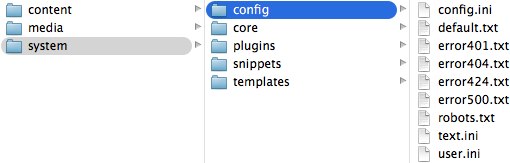
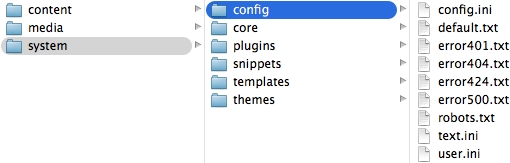
Hello themes

Changed region(s): [[0.4118, 0.5521, 0.5588, 0.6748], [0.7647, 0.5828, 0.7941, 0.6135]]

diff --git a/themes/githubber/githubber.css b/themes/githubber/githubber.css
@@ -1,4 +1,4 @@
-/* Yellow githubber style 0.1.8 */
+/* Yellow githubber theme 0.1.8 */
 
 html, body, div, form, pre, span, tr, th, td { margin:0; padding:0; border:0; vertical-align:baseline; }
 body { 

diff --git a/themes/knowbase/knowbase.css b/themes/knowbase/knowbase.css
@@ -1,4 +1,4 @@
-/* Yellow knowbase style 0.1.1 */
+/* Yellow knowbase theme 0.1.1 */
 
 html, body, div, form, pre, span, tr, th, td { margin:0; padding:0; border:0; vertical-align:baseline; }
 body { 

diff --git a/themes/blogsite/blogsite.css b/themes/blogsite/blogsite.css
@@ -1,4 +1,4 @@
-/* Yellow blogsite style 0.1.8 */
+/* Yellow blogsite theme 0.1.8 */
 
 html, body, div, form, pre, span, tr, th, td { margin:0; padding:0; border:0; vertical-align:baseline; }
 body {

diff --git a/plugins/syntaxhighlight/syntaxhighlight.php b/plugins/syntaxhighlight/syntaxhighlight.php
@@ -5,15 +5,14 @@
 // Syntax highlight parser plugin
 class YellowSyntaxhighlight
 {
-	const Version = "0.1.9";
+	const Version = "0.1.10";
 	var $yellow;			//access to API
 	
 	// Handle plugin initialisation
 	function onLoad($yellow)
 	{
 		$this->yellow = $yellow;
-		$this->yellow->config->setDefault("syntaxStyle", "syntaxhighlight");
-		$this->yellow->config->setDefault("syntaxStyleDefault", "0");
+		$this->yellow->config->setDefault("syntaxStylesheetDefault", "0");
 		$this->yellow->config->setDefault("syntaxLineNumber", "0");
 	}
 	
@@ -42,12 +41,11 @@ class YellowSyntaxhighlight
 	function onHeaderExtra($page)
 	{
 		$header = "";
-		if(!$this->yellow->config->get("syntaxStyleDefault"))
+		if(!$this->yellow->config->get("syntaxStylesheetDefault"))
 		{
-			$locationStyle = $this->yellow->config->get("serverBase");
-			$locationStyle .= $this->yellow->config->get("pluginLocation").$this->yellow->config->get("syntaxStyle").".css";
-			$fileNameStyle = $this->yellow->config->get("pluginDir").$this->yellow->config->get("syntaxStyle").".css";
-			if(is_file($fileNameStyle)) $header = "<link rel=\"stylesheet\" type=\"text/css\" media=\"all\" href=\"$locationStyle\" />\n";
+			$locationStylesheet = $this->yellow->config->get("serverBase").$this->yellow->config->get("pluginLocation")."syntaxhighlight.css";
+			$fileNameStylesheet = $this->yellow->config->get("pluginDir")."syntaxhighlight.css";
+			if(is_file($fileNameStylesheet)) $header = "<link rel=\"stylesheet\" type=\"text/css\" media=\"all\" href=\"$locationStylesheet\" />\n";
 		} else {
 			$geshi = new GeSHi();
 			$geshi->set_language_path($this->yellow->config->get("pluginDir")."/syntaxhighlight/");

diff --git a/documentation/english/media.md b/documentation/english/media.md
@@ -1,16 +1,16 @@
 Adding media
 ============
-All media is located in the **media folder**. You can store your images and other files there.
+All media is located in the **media folder**. You can store your images and other files here.
 
 ![Screenshot](media-screenshot.png?raw=true)
 
-The standard installation of Yellow comes with two media folders. The `images` folder is the place to store your images. For a small website put all images inside one folder, otherwise use multiple folders. The `styles` folder is the place for your styles, there's a `default.css` that defines how your website looks like. It's a starting point for your own designs.
+The standard installation of Yellow comes with one media folder. The `images` folder is the place to store your images. For a small website put all images inside this folder, otherwise use multiple folders. All media files are available on your website, you can use any file type you want.
 
 Create additional folders and organise media files as you like.
 
-Image files
------------
-Here's how to use images, photos and graphics. Open the file `content/1-home/page.txt` in your favorite text editor. Add `![image](icon.png)` to the text of the page. The home page shows now the default website icon. 
+Images
+------
+Here's how to use images and photos on a page. Open the file `content/1-home/page.txt` in your favorite text editor. Add `![image](icon.png)` to the text of the page. The home page shows now the default website icon. 
 
 `![image](icon.png)` shows the image `http://website/images/icon.png`  
 `![image](picture.jpg)` shows the image `http://website/images/picture.jpg`  
@@ -19,7 +19,7 @@ To use more images, add more files to your images folder.
 
 Image resize
 ------------
-Yellow has no built-in image resize, but there's the [Image plugin](https://github.com/markseu/yellowcms-extensions/tree/master/plugins/image) for resizable images and thumbnails.
+Yellow has no built-in image resize, but there's the [image plugin](https://github.com/markseu/yellowcms-extensions/tree/master/plugins/image) for resizable images and thumbnails.
 
 `[image icon.png]` shows the image `http://website/images/icon.png`  
 `[image picture.jpg]` shows the image `http://website/images/picture.jpg`  
@@ -38,25 +38,19 @@ You can use images in any size.
 
 Videos
 ------
-There's no built-in video player, but you can use the [Youtube](https://github.com/markseu/yellowcms-extensions/tree/master/plugins/youtube) and [Vimeo plugin](https://github.com/markseu/yellowcms-extensions/tree/master/plugins/vimeo).
+Yellow has no built-in video support, but you can use the [Youtube](https://github.com/markseu/yellowcms-extensions/tree/master/plugins/youtube) and [Vimeo plugin](https://github.com/markseu/yellowcms-extensions/tree/master/plugins/vimeo) to embed videos.
 
 `[youtube fhs55HEl-Gc]` shows the video `http://www.youtube.com/watch?v=fhs55HEl-Gc`  
 `[vimeo 13387502]` shows the video `http://vimeo.com/13387502`  
 
-Embed Youtube video:
+Embed a Youtube video:
 
     [youtube fhs55HEl-Gc]
     [youtube fhs55HEl-Gc right 200 112]
 
-Embed Vimeo video:
+Embed a Vimeo video:
 
     [vimeo 13387502]
     [vimeo 13387502 right 200 112]
-
-There are more [plugins](https://github.com/markseu/yellowcms-extensions/tree/master/plugins) you can download.
-
-Styles
-------
-You can customize your website with [CSS](http://en.wikipedia.org/wiki/CSS). There's a default style for the entire website. A different style can be defined in the settings of a page, for example `Style: blog` uses the file `media/styles/blog.css`. Otherwise, the default style or the name of the folder is used. There are [styles](https://github.com/markseu/yellowcms-extensions/tree/master/styles) you can download.
 
 [Next: System configuration →](system.md)

diff --git a/documentation/english/system.md b/documentation/english/system.md
@@ -4,21 +4,27 @@ All configuration is located in the **system folder**. You can change your websi
 
 ![Screenshot](system-screenshot.png?raw=true)
 
-The `config` folder contains configuration files. The `core` folder is for the Yellow software itself, its content changes only with a software update. The `plugins` folder is for Yellow plugins, to add new features. Most configuration happens in the `snippets` and `templates` folders, this is where the website layout and functionality is defined.
+The `config` folder contains configuration files. The `core` folder is for the Yellow software itself. The `plugins` folder is for additional Yellow features. Most configuration happens in the `snippets` and `templates` folders, this is where the website functionality is defined. The `themes` stores the visual design of your website.
 
 Changes in system folders affect the entire website.
 
 Configuration
 -------------
-The main configuration file is `system/config/config.ini`. You can define the default settings of your website here. For a new installation you should set sitename and author. Here's an example:
+The main configuration file is `system/config/config.ini`. You can define the default settings of your website here. For a new installation you should set sitename, author and language. Here's an example:
 
     sitename = Anna's Design Company
     author = Anna Svensson
-    style = default
-    template = default
     language = en
+    theme = default
+    template = default
 
 These settings can also be overwritten in the individual settings of a page. All files should be stored in [UTF-8](http://en.wikipedia.org/wiki/UTF-8).
+
+Themes
+------
+The visual design of pages is defined with themes. There's a default theme for the entire website. A different theme can be defined in the settings of a page, for example `Theme: popular` uses the style sheet `system/themes/popular.css`. Otherwise, the default theme or the name of the folder is used. 
+
+Start with a theme that you like. There are [themes](https://github.com/markseu/yellowcms-extensions/tree/master/themes) you can download.
 
 Templates
 ---------
@@ -30,11 +36,11 @@ The output of pages is controlled with templates. There's a default template for
     <?php $yellow->snippet("content") ?>
     <?php $yellow->snippet("footer") ?>
 
-Write your own [PHP](https://en.wikipedia.org/wiki/PHP) code. There are [templates](https://github.com/markseu/yellowcms-extensions/tree/master/templates) you can download.
+Write your own templates. There are [templates](https://github.com/markseu/yellowcms-extensions/tree/master/templates) you can download.
 
 Snippets
 --------
-Snippets are pieces of PHP code. They allow to re-use the same code in multiple templates:
+Snippets are pieces of code. They allow to re-use the same code in multiple templates:
 
     <?php $yellow->snippet("navigation") ?>
 

diff --git a/documentation/english/content.md b/documentation/english/content.md
@@ -4,15 +4,15 @@ All content is located in the **content folder**. You can update your website by
 
 ![Screenshot](content-screenshot.png?raw=true)
 
-The standard installation of Yellow has two content folders. They are just an example to get you started, change them as you like. All content folders are available on your website. Every folder has a text file called `page.txt` or with the name of the folder. That's the default page for a folder. You can add additional files to a folder.
+The standard installation of Yellow has two content folders. They are just an example to get you started, change them as you like. All content folders are available on your website. Every folder has a text file called `page.txt` or with the name of the folder. That's the default page for a folder. You can add additional text files to a folder.
 
 Basically, the structure you see in the file manager is the website you'll get.
 
 Files and folders
 -----------------
-The website navigation is automatically created from your content folders. Only folders with a prefix are shown in the navigation. Folders with prefix are for visible pages, folders without prefix are for invisible pages. Both files and folders can have a prefix:
+The website navigation is automatically created from your content folders. Only folders with a prefix are shown in the navigation. Folders with prefix are for visible pages, folders without prefix are for invisible pages. The difference is that invisible pages don't show up in navigation, search and sitemap. All files and folders can have a prefix for sorting:
 
-1. Folders can have a numerical prefix for sorting, e.g. `1-home` `2-about`
+1. Folders can have a numerical prefix, e.g. `1-home` `2-about`
 2. Files can have a date prefix for sorting, e.g. `2013-04-07-blog-article.txt`
 3. No prefix means there is no special order, e.g. `wiki-article.txt`
 
@@ -35,7 +35,7 @@ Feel free to use multiple languages and international characters.
 
 Text formatting
 ---------------
-You can write pages in [Markdown](http://en.wikipedia.org/wiki/Markdown).
+You can write pages in [Markdown](http://en.wikipedia.org/wiki/Markdown). For the most part, write text like an email and it becomes a web page. Advanced formatting is possible with [HTML](http://en.wikipedia.org/wiki/HTML). There are [plugins](https://github.com/markseu/yellowcms-extensions/tree/master/plugins) to add even more features to your pages.
 
 Emphasize text:
 
@@ -52,7 +52,5 @@ Make a link:
     http://datenstrom.se/yellow
     [Yellow](http://datenstrom.se/yellow)
     [About](/about/)
-
-For the most part, write text like an email and it becomes a web page. Advanced formatting is possible with [HTML](http://en.wikipedia.org/wiki/HTML).
 
 [Next: Adding media →](media.md)

diff --git a/themes/knowbase/README.md b/themes/knowbase/README.md
@@ -1,15 +1,15 @@
-Knowbase style 0.1.1
+Knowbase theme 0.1.1
 ====================
-Knowbase is a style for a knowledge base. 
+Knowbase is a theme for a knowledge base. 
 
 ![Screenshot](knowbase-screenshot.jpg?raw=true)
 
 How do I install this?
 ----------------------
 1. Download and install [Yellow](https://github.com/markseu/yellowcms/).  
-2. Download [knowbase.css](knowbase.css?raw=true), copy into your media/styles folder.  
+2. Download [knowbase.css](knowbase.css?raw=true), copy into your system/themes folder.  
 3. Download [knowbase.php](knowbase.php?raw=true), copy into your system/templates folder.  
 4. Download [navigationtree.php](https://github.com/markseu/yellowcms-extensions/blob/master/snippets/navigationtree/navigationtree.php?raw=true), copy into your system/snippets folder. 
-5. Use the style, open file `system/config/config.ini`, change `style = knowbase` and `template = knowbase`.  
+5. Use the theme, open file `system/config/config.ini`, change `theme = knowbase` and `template = knowbase`.  
 
-To uninstall delete the style files and set default settings.
+To uninstall delete the theme files and set default settings.

diff --git a/themes/githubber/README.md b/themes/githubber/README.md
@@ -1,0 +1,14 @@
+Githubber theme 0.1.8
+=====================
+Githubber is a GitHub-like theme. 
+
+![Screenshot](githubber-screenshot.jpg?raw=true)
+
+How do I install this?
+----------------------
+1. Download and install [Yellow](https://github.com/markseu/yellowcms/).  
+2. Download [githubber.css](githubber.css?raw=true), copy into your system/themes folder.  
+3. Download [githubber.php](githubber.php?raw=true), copy into your system/templates folder.  
+4. Use the theme, open file `system/config/config.ini`, change `theme = githubber` and `template = githubber`.  
+
+To uninstall delete the theme files and set default settings.

diff --git a/themes/blogsite/README.md b/themes/blogsite/README.md
@@ -1,0 +1,13 @@
+Blogsite theme 0.1.8
+====================
+Blogsite is a basic blogger theme. 
+
+![Screenshot](blogsite-screenshot.jpg?raw=true)
+
+How do I install this?
+----------------------
+1. Download and install [Yellow](https://github.com/markseu/yellowcms/).  
+2. Download [blogsite.css](blogsite.css?raw=true) and [blogsite.jpg](blogsite.jpg?raw=true), copy both files into your system/themes folder.  
+3. Use the theme on your website, open file `system/config/config.ini` and change `theme = blogsite`.  
+
+To uninstall delete the theme files and set default settings.
